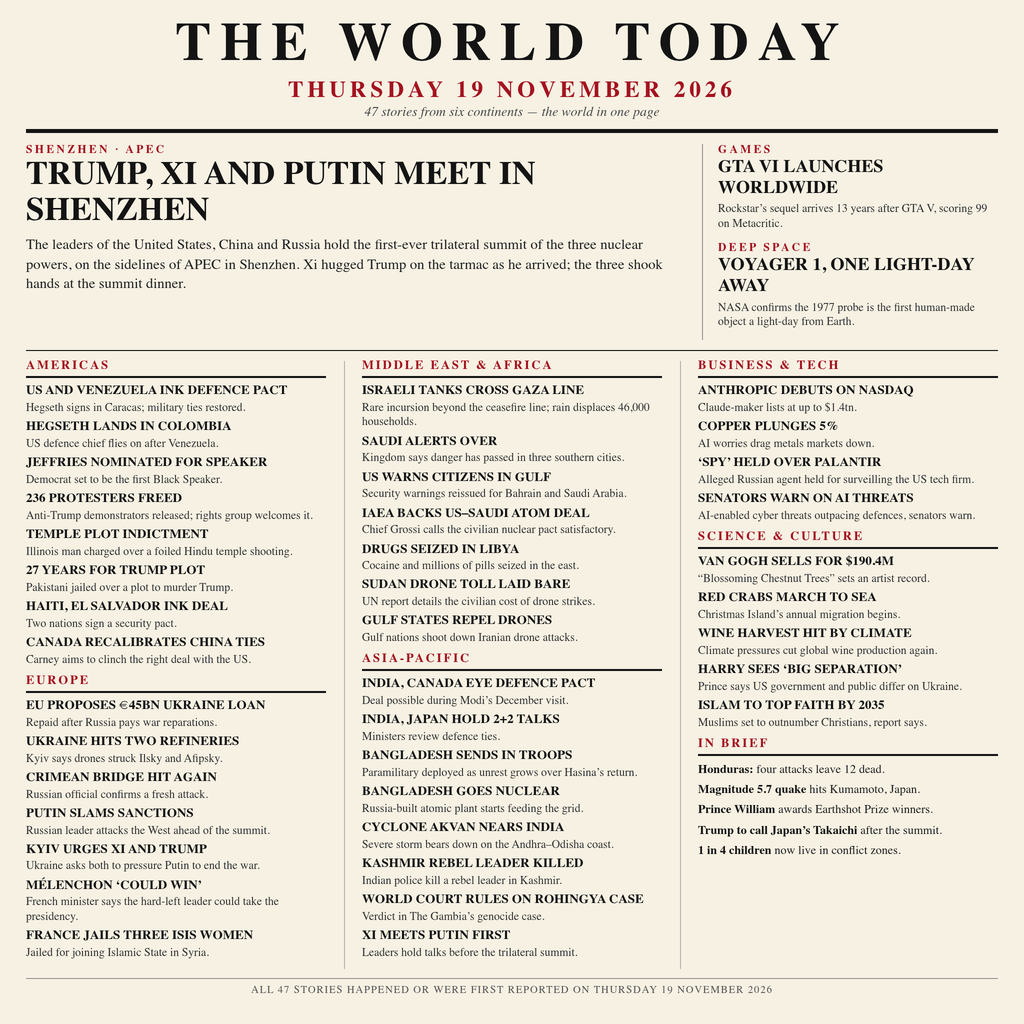
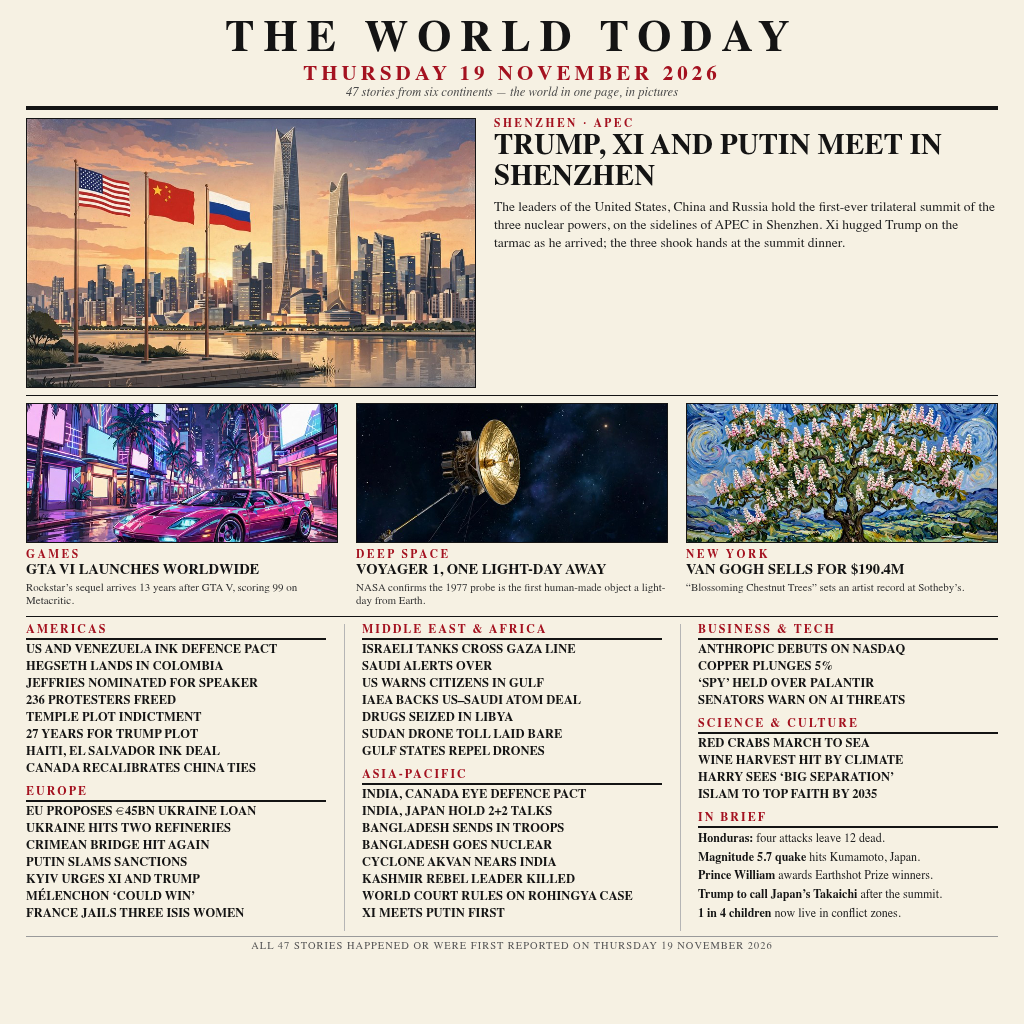
v3: final 47-story image with pictures (1024x1024)

diff --git a/main.ts b/main.ts
@@ -29,3 +29,12 @@ if (!copied.equals(original)) {
 if (copied.length > 1048576) {
   throw new Error("entry.png exceeds the 1 MiB limit");
 }
+
+// The gate reads the file by its first bytes: make sure it is a whole
+// PNG or JPEG before handing it over.
+const magic = copied.subarray(0, 4);
+const isPng = magic.equals(Buffer.from([0x89, 0x50, 0x4e, 0x47]));
+const isJpeg = copied[0] === 0xff && copied[1] === 0xd8 && copied[2] === 0xff;
+if (!isPng && !isJpeg) {
+  throw new Error("entry.png is neither PNG nor JPEG");
+}
